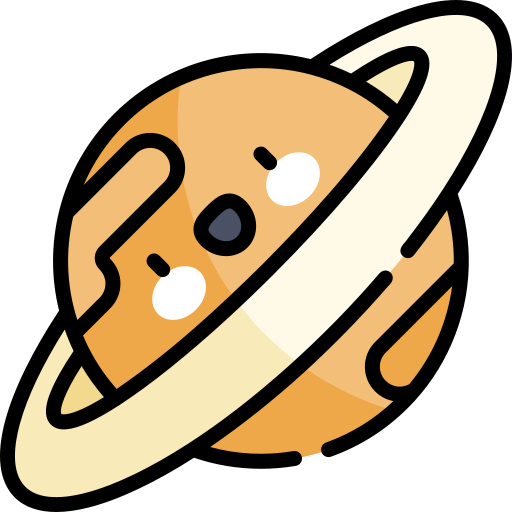
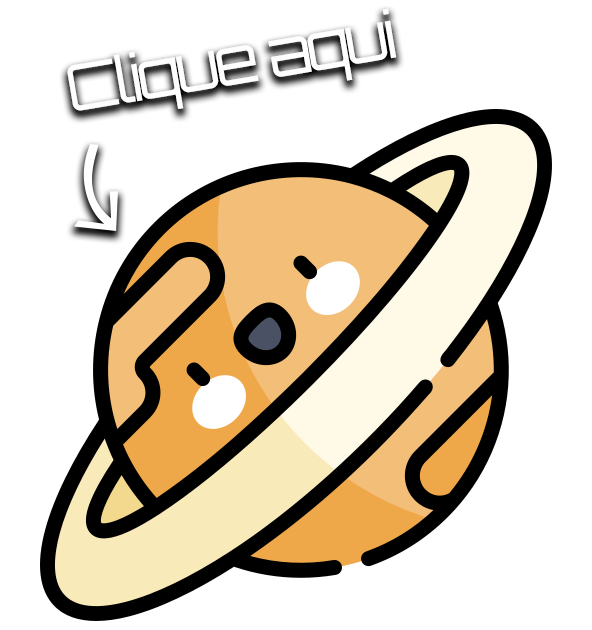
Revisão de código e estilização

diff --git a/src/component/Footer/Footer.js b/src/component/Footer/Footer.js
@@ -1,18 +1,15 @@
 import React from 'react'
-import { AppDown, AppSocialBox, Infs, MainContainer, Social } from './styled'
+import { AppDown, AppSocialBox, Infs, Logo, MainContainer, Social } from './styled'
 import apple from '../../img/socialAppstore.png'
 import google from '../../img/socialGoogleplay.png'
 import face from '../../img/face.png'
 import insta from '../../img/insta.png'
 import twitter from '../../img/twitter.png'
+import labex2 from '../../img/logoLabex2.png'
 
 const Footer = () => {
   return (
     <MainContainer>
-        {/* <div>
-        Footer
-
-        </div> */}
         <AppSocialBox>
             <AppDown>
                 <p>Baixe nosso aplicativo</p>
@@ -29,10 +26,8 @@ const Footer = () => {
                     <img src={twitter}/>
                 </div>
             </Social>
+            <a href='#top'> <Logo src={labex2}/> </a> 
         </AppSocialBox>
-        {/* <div>
-        Footer
-        </div> */}
         <Infs>
             <p>Labex Operadora e Agência de Viagens S.A - CNPJ: 15.768.260/00016-19 Rua da Lua, 227, 21 andar, sala 2211 | Bairro Espacial, Varginha - SP CEP: 91090-350</p>
         </Infs>

diff --git a/src/pages/PaginaInicial/PaginaInicial.js b/src/pages/PaginaInicial/PaginaInicial.js
@@ -8,9 +8,9 @@ import Login from '../../modal/Login/Login'
 import { pagInicial } from '../../routes/coordinator'
 import Footer from '../../component/Footer/Footer'
 import planeta from '../../img/planetaParalax.png'
-import teste from '../../img/teste.png'
 import nave from '../../img/naveParalax.png'
 import terra from '../../img/terraParalax.png'
+import red from '../../img/red.png'
 
 const PaginaInicial = () => {
   const params = useParams()
@@ -33,13 +33,14 @@ const PaginaInicial = () => {
         <Parallax>
           <img src={terra} className='terra'/>
           <img src={nave} className='nave'/>
-          <img src={teste} className='planeta'/>
+          <img src={planeta} className='planeta'/>
           <h1>
             Encontre viagens espaciais, explore a galaxia, ou se preferir crie a própria viagem e chame os seus amigos!
           </h1>
+        <img src={red} className='red'/>
         </Parallax>
         <ListaDeViagens/>
-        <Footer/>
+        <Footer id='footer'/>
       </SecondContainer>
     </MainContainer>
   )

diff --git a/src/pages/PaginaInicial/style.js b/src/pages/PaginaInicial/style.js
@@ -26,11 +26,15 @@ export const SecondContainer = styled.div`
     overflow-y: auto;
     overflow-x: hidden;
     perspective: 10px;
+    position: relative;
     h1{
         width: 70%;
         margin: 25px 0;
         font-family: 'Orbitron', sans-serif;
         text-shadow: 2px 5px 5px #000000;
+    }
+    #footer{
+        align-self: flex-end;
     }
 `
 
@@ -67,5 +71,13 @@ export const Parallax = styled.div`
         object-fit: cover; 
         transform: translateZ(-5px) scale(1.5); 
         z-index : -3;
+    }
+    .red{
+        width: 30%;
+        position: absolute;
+        object-fit: cover;
+        bottom: -2300px;
+        right: -450px;
+        transform: translateZ(-15px) scale(2.5);
     }
 `

diff --git a/src/component/Footer/styled.js b/src/component/Footer/styled.js
@@ -18,6 +18,7 @@ export const AppSocialBox = styled.div`
     width: 90%;
     padding: 25px 0px;
     display: flex;
+    justify-content: space-between;
 `
 export const AppDown = styled.div`
     width: 35%;
@@ -30,7 +31,7 @@ export const AppDown = styled.div`
     }
 `
 export const Social = styled.div`
-    width: 50%;
+    width: 35%;
     display: flex;
     flex-direction: column;
     align-items: flex-start;
@@ -46,4 +47,7 @@ export const Infs = styled.div`
     p{
         font-size: 13px;
     }
+`
+export const Logo = styled.img`
+    width: 200px;
 `

diff --git a/src/component/Header/Header.js b/src/component/Header/Header.js
@@ -11,7 +11,7 @@ const Header = () => {
     const params = useParams()
 
   return (
-    <MainContainer>
+    <MainContainer id='top'>
         <Logo src={labex}/>
         {params.log === "logado" || params.modal === "novaViagem" || params.page === "gerenciar" 
         || params.id
